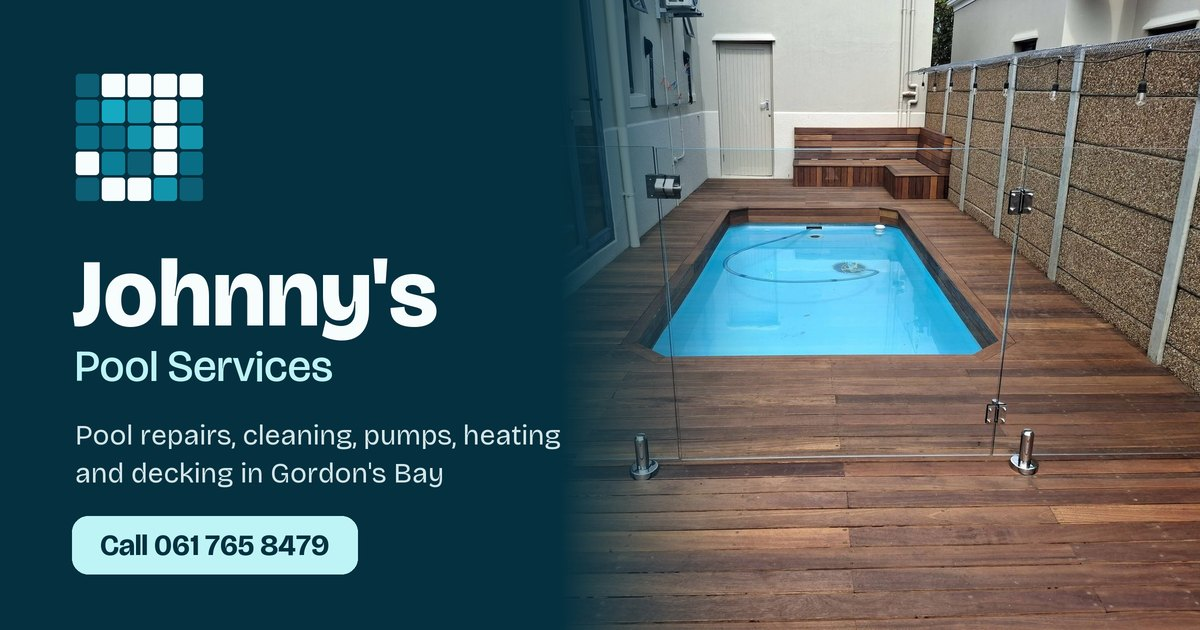
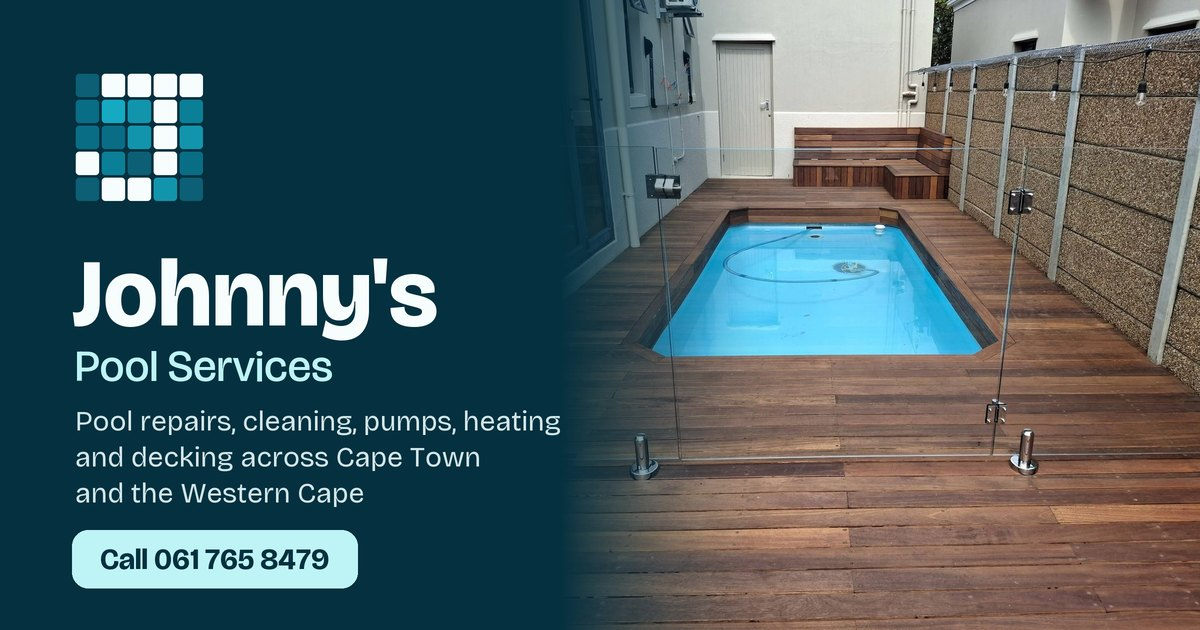
Reposition site for Cape Town and the Western Cape
Johnny works across Cape Town and the Western Cape, not only Gordon's Bay.
Title, description, H1 line, link previews, share image, structured data
(service-area business with Cape Town, Western Cape and 11 named areas),
FAQ, footer and legal pages now reflect the wider service area, and a
"service areas" section lists the regions he covers.

Changed region(s): [[0.0617, 0.6333, 0.4625, 0.9349]]

diff --git a/index.html b/index.html
@@ -3,15 +3,13 @@
 <head>
   <meta charset="utf-8">
   <meta name="viewport" content="width=device-width, initial-scale=1, viewport-fit=cover">
-  <title>Pool Repairs &amp; Pool Cleaning in Gordon's Bay | Johnny's Pool Services</title>
-  <meta name="description" content="Pool repairs, cleaning, pump and filter repairs, solar heating, LED lights and decking in Gordon's Bay. Open every day. Call Johnny on 061 765 8479.">
+  <title>Pool Repairs &amp; Cleaning in Cape Town &amp; the Western Cape | Johnny's Pool Services</title>
+  <meta name="description" content="Pool repairs, cleaning, pump and filter repairs, solar heating, LED lights and decking across Cape Town and the Western Cape. Open every day. Call 061 765 8479.">
   <meta name="robots" content="index, follow, max-image-preview:large">
   <link rel="canonical" href="https://obsidianstudiodesigns.github.io/JohnnysPoolServices/">
   <meta name="theme-color" content="#04303f">
   <meta name="geo.region" content="ZA-WC">
-  <meta name="geo.placename" content="Gordon's Bay">
-  <meta name="geo.position" content="-34.1575;18.8665">
-  <meta name="ICBM" content="-34.1575, 18.8665">
+  <meta name="geo.placename" content="Cape Town, Western Cape">
   <!-- Google Search Console: paste the verification meta tag here if you use the HTML-tag method -->
 
   <link rel="icon" href="favicon.svg" type="image/svg+xml">
@@ -24,8 +22,8 @@
   <meta property="og:site_name" content="Johnny's Pool Services">
   <meta property="og:locale" content="en_ZA">
   <meta property="og:url" content="https://obsidianstudiodesigns.github.io/JohnnysPoolServices/">
-  <meta property="og:title" content="Johnny's Pool Services | Pool repairs &amp; cleaning in Gordon's Bay">
-  <meta property="og:description" content="Everything in and around your pool: repairs, cleaning, pumps and filters, solar heating, LED lights and decking in Gordon's Bay. Open every day.">
+  <meta property="og:title" content="Johnny's Pool Services | Pool repairs &amp; cleaning across Cape Town &amp; the Western Cape">
+  <meta property="og:description" content="Everything in and around your pool: repairs, cleaning, pumps and filters, solar heating, LED lights and decking across Cape Town and the Western Cape. Open every day.">
   <meta property="og:image" content="https://obsidianstudiodesigns.github.io/JohnnysPoolServices/assets/brand/og-image.jpg">
   <meta property="og:image:secure_url" content="https://obsidianstudiodesigns.github.io/JohnnysPoolServices/assets/brand/og-image.jpg">
   <meta property="og:image:type" content="image/jpeg">
@@ -33,14 +31,14 @@
   <meta property="og:image:height" content="630">
   <meta property="og:image:alt" content="Johnny's Pool Services logo beside a plunge pool with a new balau deck">
   <meta name="twitter:card" content="summary_large_image">
-  <meta name="twitter:title" content="Johnny's Pool Services | Pool repairs &amp; cleaning in Gordon's Bay">
-  <meta name="twitter:description" content="Repairs, cleaning, pumps, solar heating, LED lights and decking in Gordon's Bay. Open every day.">
+  <meta name="twitter:title" content="Johnny's Pool Services | Pool repairs &amp; cleaning across Cape Town &amp; the Western Cape">
+  <meta name="twitter:description" content="Repairs, cleaning, pumps, solar heating, LED lights and decking across Cape Town and the Western Cape. Open every day.">
   <meta name="twitter:image" content="https://obsidianstudiodesigns.github.io/JohnnysPoolServices/assets/brand/og-image.jpg">
 
   <link rel="preconnect" href="https://fonts.googleapis.com">
   <link rel="preconnect" href="https://fonts.gstatic.com" crossorigin>
   <link href="https://fonts.googleapis.com/css2?family=Bricolage+Grotesque:opsz,wdth,wght@12..96,75..100,300..800&display=swap" rel="stylesheet">
-  <link rel="stylesheet" href="css/styles.css?v=6">
+  <link rel="stylesheet" href="css/styles.css?v=7">
   <script type="importmap">
     {
       "imports": {
@@ -61,7 +59,7 @@
    "@id": "https://obsidianstudiodesigns.github.io/JohnnysPoolServices/#business",
    "name": "Johnny's Pool Services",
    "alternateName": "Johnny's Pools Services",
-   "description": "Pool repairs, pool cleaning, pump and filter repairs, solar pool heating, LED pool lights and timber decking in Gordon's Bay, Western Cape.",
+   "description": "Pool repairs, pool cleaning, pump and filter repairs, solar pool heating, LED pool lights and timber decking across Cape Town and the Western Cape.",
    "url": "https://obsidianstudiodesigns.github.io/JohnnysPoolServices/",
    "logo": "https://obsidianstudiodesigns.github.io/JohnnysPoolServices/assets/brand/icon-512.png",
    "image": [
@@ -73,29 +71,61 @@
    "email": "johnvdbergmsp@gmail.com",
    "address": {
     "@type": "PostalAddress",
-    "addressLocality": "Gordon's Bay",
     "addressRegion": "Western Cape",
-    
     "addressCountry": "ZA"
-   },
-   "geo": {
-    "@type": "GeoCoordinates",
-    "latitude": -34.1575,
-    "longitude": 18.8665
    },
    "areaServed": [
     {
-     "@type": "City",
-     "name": "Gordon's Bay"
+     "@type": "AdministrativeArea",
+     "name": "Western Cape"
     },
     {
-     "@type": "GeoCircle",
-     "geoMidpoint": {
-      "@type": "GeoCoordinates",
-      "latitude": -34.1575,
-      "longitude": 18.8665
-     },
-     "geoRadius": "25000"
+     "@type": "City",
+     "name": "Cape Town"
+    },
+    {
+     "@type": "Place",
+     "name": "City Bowl, Cape Town"
+    },
+    {
+     "@type": "Place",
+     "name": "Atlantic Seaboard, Cape Town"
+    },
+    {
+     "@type": "Place",
+     "name": "Southern Suburbs, Cape Town"
+    },
+    {
+     "@type": "Place",
+     "name": "Northern Suburbs, Cape Town"
+    },
+    {
+     "@type": "Place",
+     "name": "Somerset West, Western Cape"
+    },
+    {
+     "@type": "Place",
+     "name": "Strand, Western Cape"
+    },
+    {
+     "@type": "Place",
+     "name": "Gordon's Bay, Western Cape"
+    },
+    {
+     "@type": "Place",
+     "name": "Stellenbosch, Western Cape"
+    },
+    {
+     "@type": "Place",
+     "name": "Paarl, Western Cape"
+    },
+    {
+     "@type": "Place",
+     "name": "Wellington, Western Cape"
+    },
+    {
+     "@type": "Place",
+     "name": "Franschhoek, Western Cape"
     }
    ],
    "openingHoursSpecification": [
@@ -139,7 +169,7 @@
        "@type": "Service",
        "name": "Pool repairs and renovations",
        "description": "Leak finding and repair, fittings, plumbing and pool renovations.",
-       "areaServed": "Gordon's Bay"
+       "areaServed": "Cape Town and the Western Cape"
       }
      },
      {
@@ -148,7 +178,7 @@
        "@type": "Service",
        "name": "Pool cleaning and water care",
        "description": "Regular or once-off pool cleaning, water testing and balancing, and green pool turnarounds.",
-       "areaServed": "Gordon's Bay"
+       "areaServed": "Cape Town and the Western Cape"
       }
      },
      {
@@ -157,7 +187,7 @@
        "@type": "Service",
        "name": "Pool pump and filter repairs",
        "description": "Pool pumps, sand filters and multiport valves supplied, fitted and repaired.",
-       "areaServed": "Gordon's Bay"
+       "areaServed": "Cape Town and the Western Cape"
       }
      },
      {
@@ -166,7 +196,7 @@
        "@type": "Service",
        "name": "Solar pool heating",
        "description": "Solar heating mats installed, extended and repaired, plus heat pump options.",
-       "areaServed": "Gordon's Bay"
+       "areaServed": "Cape Town and the Western Cape"
       }
      },
      {
@@ -175,7 +205,7 @@
        "@type": "Service",
        "name": "Pool lighting",
        "description": "New LED pool lights and halogen to LED upgrades.",
-       "areaServed": "Gordon's Bay"
+       "areaServed": "Cape Town and the Western Cape"
       }
      },
      {
@@ -184,7 +214,7 @@
        "@type": "Service",
        "name": "Pool decking",
        "description": "New timber decks, sanding, oiling and pump covers.",
-       "areaServed": "Gordon's Bay"
+       "areaServed": "Cape Town and the Western Cape"
       }
      }
     ]
@@ -206,10 +236,18 @@
    "mainEntity": [
     {
      "@type": "Question",
-     "name": "Do you do pool repairs in Gordon's Bay?",
+     "name": "Do you do pool repairs in Cape Town?",
      "acceptedAnswer": {
       "@type": "Answer",
-      "text": "Yes. Johnny repairs leaks, cracked fittings, pumps, filters, plumbing and pool lights, and renovates tired pools across Gordon's Bay and the surrounding area."
+      "text": "Yes. Johnny repairs leaks, cracked fittings, pumps, filters, plumbing and pool lights, and renovates tired pools all over Cape Town and the Western Cape."
+     }
+    },
+    {
+     "@type": "Question",
+     "name": "Which areas do you cover?",
+     "acceptedAnswer": {
+      "@type": "Answer",
+      "text": "Johnny works all over Cape Town and the Western Cape, including the City Bowl, Atlantic Seaboard, Southern and Northern Suburbs, Somerset West, Strand, Gordon's Bay, Stellenbosch, Paarl, Wellington and Franschhoek. If your area isn't listed, ask."
      }
     },
     {
@@ -282,12 +320,12 @@
       <div class="hero-shade" aria-hidden="true"></div>
       <div class="hero-inner">
         <h1 id="hero-title" class="hero-title">
-          <span class="hero-kicker">Pool services in Gordon's Bay</span>
+          <span class="hero-kicker">Pool services across Cape Town and the Western Cape</span>
           <span class="line"><span>Everything in</span></span>
           <span class="line"><span>and around</span></span>
           <span class="line"><span>your pool.</span></span>
         </h1>
-        <p class="hero-lede">Cleaning, pumps, heating, lighting, decking and repairs in Gordon's Bay, sorted by Johnny from the first call to the last swim of summer.</p>
+        <p class="hero-lede">Cleaning, pumps, heating, lighting, decking and repairs anywhere in Cape Town and the Western Cape, sorted by Johnny from the first call to the last swim of summer.</p>
         <div class="hero-actions">
           <a class="btn btn-light" href="tel:+27617658479">Call 061 765 8479</a>
           <a class="btn btn-ghost" href="https://wa.me/27617658479" target="_blank" rel="noopener">WhatsApp Johnny</a>
@@ -444,8 +482,12 @@
       <h2 id="faq-title">Questions people ask</h2>
       <div class="faq-list">
         <details class="faq-item">
-          <summary>Do you do pool repairs in Gordon's Bay?</summary>
-          <p>Yes. Johnny repairs leaks, cracked fittings, pumps, filters, plumbing and pool lights, and renovates tired pools across Gordon's Bay and the surrounding area.</p>
+          <summary>Do you do pool repairs in Cape Town?</summary>
+          <p>Yes. Johnny repairs leaks, cracked fittings, pumps, filters, plumbing and pool lights, and renovates tired pools all over Cape Town and the Western Cape.</p>
+        </details>
+        <details class="faq-item">
+          <summary>Which areas do you cover?</summary>
+          <p>Johnny works all over Cape Town and the Western Cape, including the City Bowl, Atlantic Seaboard, Southern and Northern Suburbs, Somerset West, Strand, Gordon's Bay, Stellenbosch, Paarl, Wellington and Franschhoek. If your area isn't listed, ask.</p>
         </details>
         <details class="faq-item">
           <summary>Can you fix a green pool?</summary>
@@ -470,10 +512,25 @@
       </div>
     </section>
 
-    <section class="local" aria-labelledby="local-title">
+    <section class="local" id="areas" aria-labelledby="local-title">
       <div class="local-inner">
-        <h2 id="local-title">Local to Gordon's Bay. Open every day.</h2>
-        <p>Johnny does pool repairs, cleaning and maintenance across Gordon's Bay and the surrounding area. Pools don't keep office hours, so neither does he. Call any day of the week.</p>
+        <h2 id="local-title">All over Cape Town and the Western Cape. Open every day.</h2>
+        <p>Johnny comes to you. He does pool repairs, cleaning and maintenance across Cape Town and the wider Western Cape, and pools don't keep office hours, so neither does he.</p>
+        <div class="areas">
+          <div class="area-group">
+            <h3>Cape Town</h3>
+            <ul><li>City Bowl</li><li>Atlantic Seaboard</li><li>Southern Suburbs</li><li>Northern Suburbs</li></ul>
+          </div>
+          <div class="area-group">
+            <h3>Helderberg</h3>
+            <ul><li>Somerset West</li><li>Strand</li><li>Gordon's Bay</li></ul>
+          </div>
+          <div class="area-group">
+            <h3>Cape Winelands</h3>
+            <ul><li>Stellenbosch</li><li>Paarl</li><li>Wellington</li><li>Franschhoek</li></ul>
+          </div>
+        </div>
+        <p class="areas-note">Not on the list? Ask. Johnny travels across the Western Cape.</p>
       </div>
     </section>
 
@@ -487,7 +544,7 @@
           <li><a href="mailto:johnvdbergmsp@gmail.com">johnvdbergmsp@gmail.com</a></li>
         </ul>
         <a class="social-link" href="https://www.facebook.com/profile.php?id=100057237708937" target="_blank" rel="noopener" aria-label="Johnny's Pools Services on Facebook (opens in a new tab)" title="Facebook"><svg viewBox="0 0 24 24" width="22" height="22" aria-hidden="true" focusable="false"><path fill="currentColor" d="M24 12.07C24 5.41 18.63 0 12 0S0 5.4 0 12.07C0 18.1 4.39 23.1 10.13 24v-8.44H7.08v-3.49h3.04V9.41c0-3.02 1.8-4.7 4.54-4.7 1.31 0 2.68.24 2.68.24v2.97h-1.5c-1.5 0-1.96.93-1.96 1.89v2.26h3.32l-.53 3.5h-2.8V24C19.62 23.1 24 18.1 24 12.07"/></svg></a>
-        <p class="contact-note">Gordon's Bay, Western Cape. Open every day.</p>
+        <p class="contact-note">Serving Cape Town and the Western Cape. Open every day.</p>
       </div>
 
       <form class="quote-form" id="quote-form" novalidate>
@@ -504,7 +561,7 @@
           </div>
           <div class="field">
             <label for="f-area">Suburb</label>
-            <input id="f-area" name="area" autocomplete="address-level2" placeholder="e.g. Gordon's Bay">
+            <input id="f-area" name="area" autocomplete="address-level2" placeholder="e.g. Somerset West">
           </div>
         </div>
         <div class="field">
@@ -536,7 +593,7 @@
   <footer class="site-footer">
     <div class="footer-brand">
       <span class="brand-mark" data-logo="mosaic"></span>
-      <p>Johnny's Pool Services<br>Gordon's Bay, Western Cape</p>
+      <p>Johnny's Pool Services<br>Cape Town &amp; the Western Cape</p>
     </div>
     <p class="footer-links">
       <a href="tel:+27617658479">061 765 8479</a>

diff --git a/terms.html b/terms.html
@@ -3,7 +3,7 @@
 <head>
   <meta charset="utf-8">
   <meta name="viewport" content="width=device-width, initial-scale=1, viewport-fit=cover">
-  <title>Terms of Use | Johnny's Pool Services, Gordon's Bay</title>
+  <title>Terms of Use | Johnny's Pool Services, Cape Town &amp; Western Cape</title>
   <meta name="description" content="Terms of use for the Johnny's Pool Services website, including the business information required by the Electronic Communications and Transactions Act.">
   <link rel="canonical" href="https://obsidianstudiodesigns.github.io/JohnnysPoolServices/terms.html">
   <meta name="theme-color" content="#04303f">
@@ -14,7 +14,7 @@
   <link rel="preconnect" href="https://fonts.googleapis.com">
   <link rel="preconnect" href="https://fonts.gstatic.com" crossorigin>
   <link href="https://fonts.googleapis.com/css2?family=Bricolage+Grotesque:opsz,wdth,wght@12..96,75..100,300..800&display=swap" rel="stylesheet">
-  <link rel="stylesheet" href="css/styles.css?v=6">
+  <link rel="stylesheet" href="css/styles.css?v=7">
 </head>
 <body class="legal-page">
   <header class="site-header is-solid">
@@ -37,7 +37,7 @@
     <dl>
       <dt>Trading name</dt><dd>Johnny's Pool Services</dd>
       <dt>Services</dt><dd>Swimming pool cleaning, maintenance, repairs, renovations, pumps and filtration, heating, lighting and decking</dd>
-      <dt>Location</dt><dd>Gordon's Bay, Western Cape, South Africa</dd>
+      <dt>Service area</dt><dd>Cape Town and the Western Cape, South Africa</dd>
       <dt>Phone</dt><dd><a href="tel:+27617658479">061 765 8479</a></dd>
       <dt>Email</dt><dd><a href="mailto:johnvdbergmsp@gmail.com">johnvdbergmsp@gmail.com</a></dd>
       <dt>Website</dt><dd><a href="https://obsidianstudiodesigns.github.io/JohnnysPoolServices/">obsidianstudiodesigns.github.io/JohnnysPoolServices</a></dd>

diff --git a/privacy.html b/privacy.html
@@ -3,7 +3,7 @@
 <head>
   <meta charset="utf-8">
   <meta name="viewport" content="width=device-width, initial-scale=1, viewport-fit=cover">
-  <title>Privacy Policy | Johnny's Pool Services, Gordon's Bay</title>
+  <title>Privacy Policy | Johnny's Pool Services, Cape Town &amp; Western Cape</title>
   <meta name="description" content="How Johnny's Pool Services collects, uses and protects your personal information under the Protection of Personal Information Act (POPIA).">
   <link rel="canonical" href="https://obsidianstudiodesigns.github.io/JohnnysPoolServices/privacy.html">
   <meta name="theme-color" content="#04303f">
@@ -14,7 +14,7 @@
   <link rel="preconnect" href="https://fonts.googleapis.com">
   <link rel="preconnect" href="https://fonts.gstatic.com" crossorigin>
   <link href="https://fonts.googleapis.com/css2?family=Bricolage+Grotesque:opsz,wdth,wght@12..96,75..100,300..800&display=swap" rel="stylesheet">
-  <link rel="stylesheet" href="css/styles.css?v=6">
+  <link rel="stylesheet" href="css/styles.css?v=7">
 </head>
 <body class="legal-page">
   <header class="site-header is-solid">
@@ -35,7 +35,7 @@
     <h2>Who we are</h2>
     <dl>
       <dt>Business</dt><dd>Johnny's Pool Services</dd>
-      <dt>Location</dt><dd>Gordon's Bay, Western Cape, South Africa</dd>
+      <dt>Service area</dt><dd>Cape Town and the Western Cape, South Africa</dd>
       <dt>Phone</dt><dd><a href="tel:+27617658479">061 765 8479</a></dd>
       <dt>Email</dt><dd><a href="mailto:johnvdbergmsp@gmail.com">johnvdbergmsp@gmail.com</a></dd>
     </dl>

diff --git a/css/styles.css b/css/styles.css
@@ -324,6 +324,13 @@ a { color: inherit; }
 .local-inner { position: relative; max-width: 44rem; }
 .local h2 { font-size: var(--t-xl); letter-spacing: -.035em; }
 .local p { margin-top: 1.25rem; font-size: 1.125rem; color: rgba(247, 252, 252, .88); max-width: 34rem; }
+.local-inner { max-width: 62rem; }
+.areas { display: grid; grid-template-columns: repeat(3, minmax(0, 1fr)); gap: 1.5rem 2.5rem; margin-top: 2.25rem; }
+.area-group h3 { font-size: 1.15rem; letter-spacing: -.01em; color: var(--glint); }
+.area-group ul { list-style: none; margin: .6rem 0 0; padding: 0; display: flex; flex-wrap: wrap; gap: .45rem; }
+.area-group li { padding: .35rem .75rem; border-radius: 999px; background: rgba(4, 48, 63, .38); font-size: .95rem; }
+.local .areas-note { margin-top: 1.75rem; font-size: 1rem; }
+@media (max-width: 760px) { .areas { grid-template-columns: 1fr; } }
 
 /* ---------- contact ---------- */
 .contact {

diff --git a/logos.html b/logos.html
@@ -90,7 +90,7 @@
             <div class="bizcard front">${svgDoc(logo.lockup('dark'), logo.lockupBox, { title: '' })}</div>
             <div class="bizcard back">
               <div><strong>Johnny</strong><span>Johnny's Pool Services</span></div>
-              <div><span>061 765 8479</span><span>johnvdbergmsp@gmail.com</span><span>Gordon's Bay</span></div>
+              <div><span>061 765 8479</span><span>johnvdbergmsp@gmail.com</span><span>Cape Town &amp; Western Cape</span></div>
               <div class="mini">${svgDoc(logo.mark('light'), '0 0 120 120', { title: '' })}</div>
             </div>
             <p class="card-caption">Business card, front and back</p>

diff --git a/tools/make-social.py b/tools/make-social.py
@@ -63,13 +63,13 @@ def og_image():
     d.text((x, 236 * k), "Johnny's", font=font(96 * k, 'ExtraBold'), fill=WHITE)
     d.text((x + 3 * k, 340 * k), 'Pool Services', font=font(44 * k, 'Medium'), fill=GLINT)
     body = font(28 * k, 'Regular', 24)
-    for i, line in enumerate(['Pool repairs, cleaning, pumps, heating', "and decking in Gordon's Bay"]):
-        d.text((x + 3 * k, (418 + i * 38) * k), line, font=body, fill=(210, 230, 233))
+    for i, line in enumerate(['Pool repairs, cleaning, pumps, heating', 'and decking across Cape Town', 'and the Western Cape']):
+        d.text((x + 3 * k, (404 + i * 36) * k), line, font=body, fill=(210, 230, 233))
     phone = font(30 * k, 'Bold')
     label = 'Call 061 765 8479'
     tw = d.textlength(label, font=phone)
-    d.rounded_rectangle([x, 516 * k, x + tw + 56 * k, 574 * k], radius=16 * k, fill=GLINT)
-    d.text((x + 28 * k, 545 * k), label, font=phone, fill=ABYSS, anchor='lm')
+    d.rounded_rectangle([x, 530 * k, x + tw + 56 * k, 588 * k], radius=16 * k, fill=GLINT)
+    d.text((x + 28 * k, 559 * k), label, font=phone, fill=ABYSS, anchor='lm')
     im.resize((W, H), Image.LANCZOS).save(OUT / 'og-image.jpg', quality=86, optimize=True, progressive=True)
 
 

diff --git a/README.md b/README.md
@@ -1,6 +1,6 @@
 # Johnny's Pool Services website
 
-A single-page site for Johnny's Pool Services, Gordon's Bay.
+A single-page site for Johnny's Pool Services, serving Cape Town and the Western Cape.
 
 - `index.html` is the website. `logos.html` shows the five logo options.
 - `logos/` holds each logo as an SVG file (icon, plus a logo for light and for dark backgrounds).
